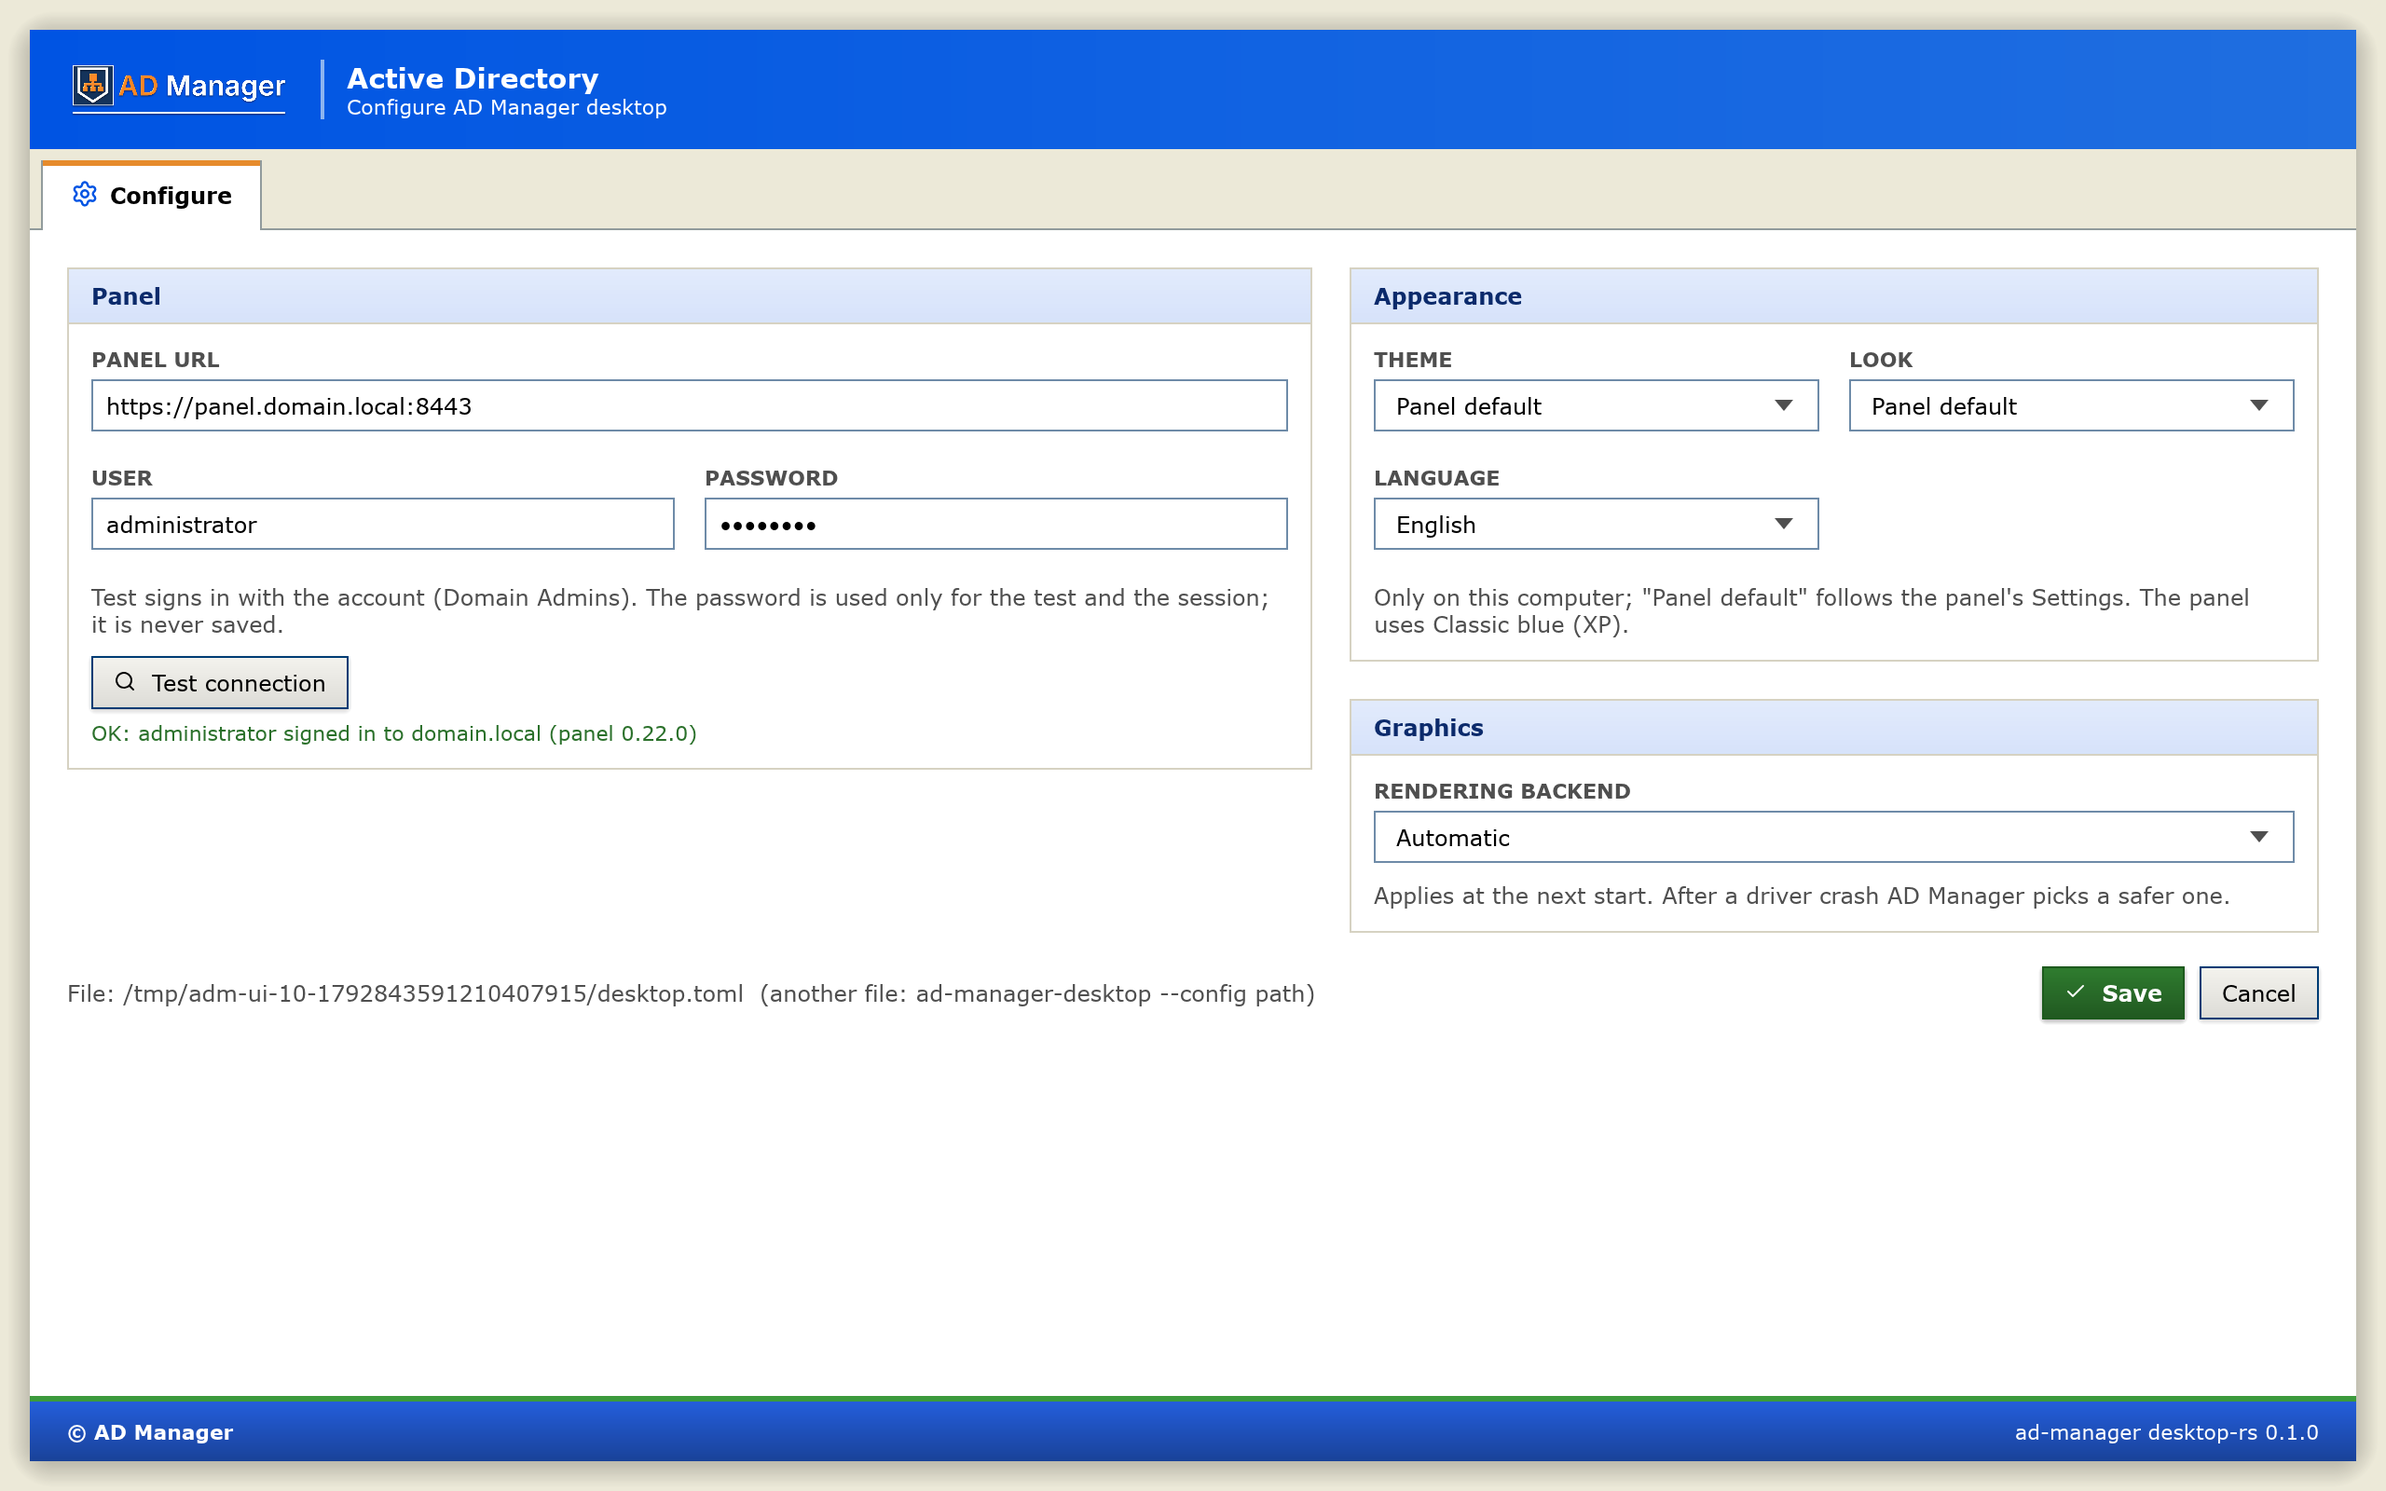
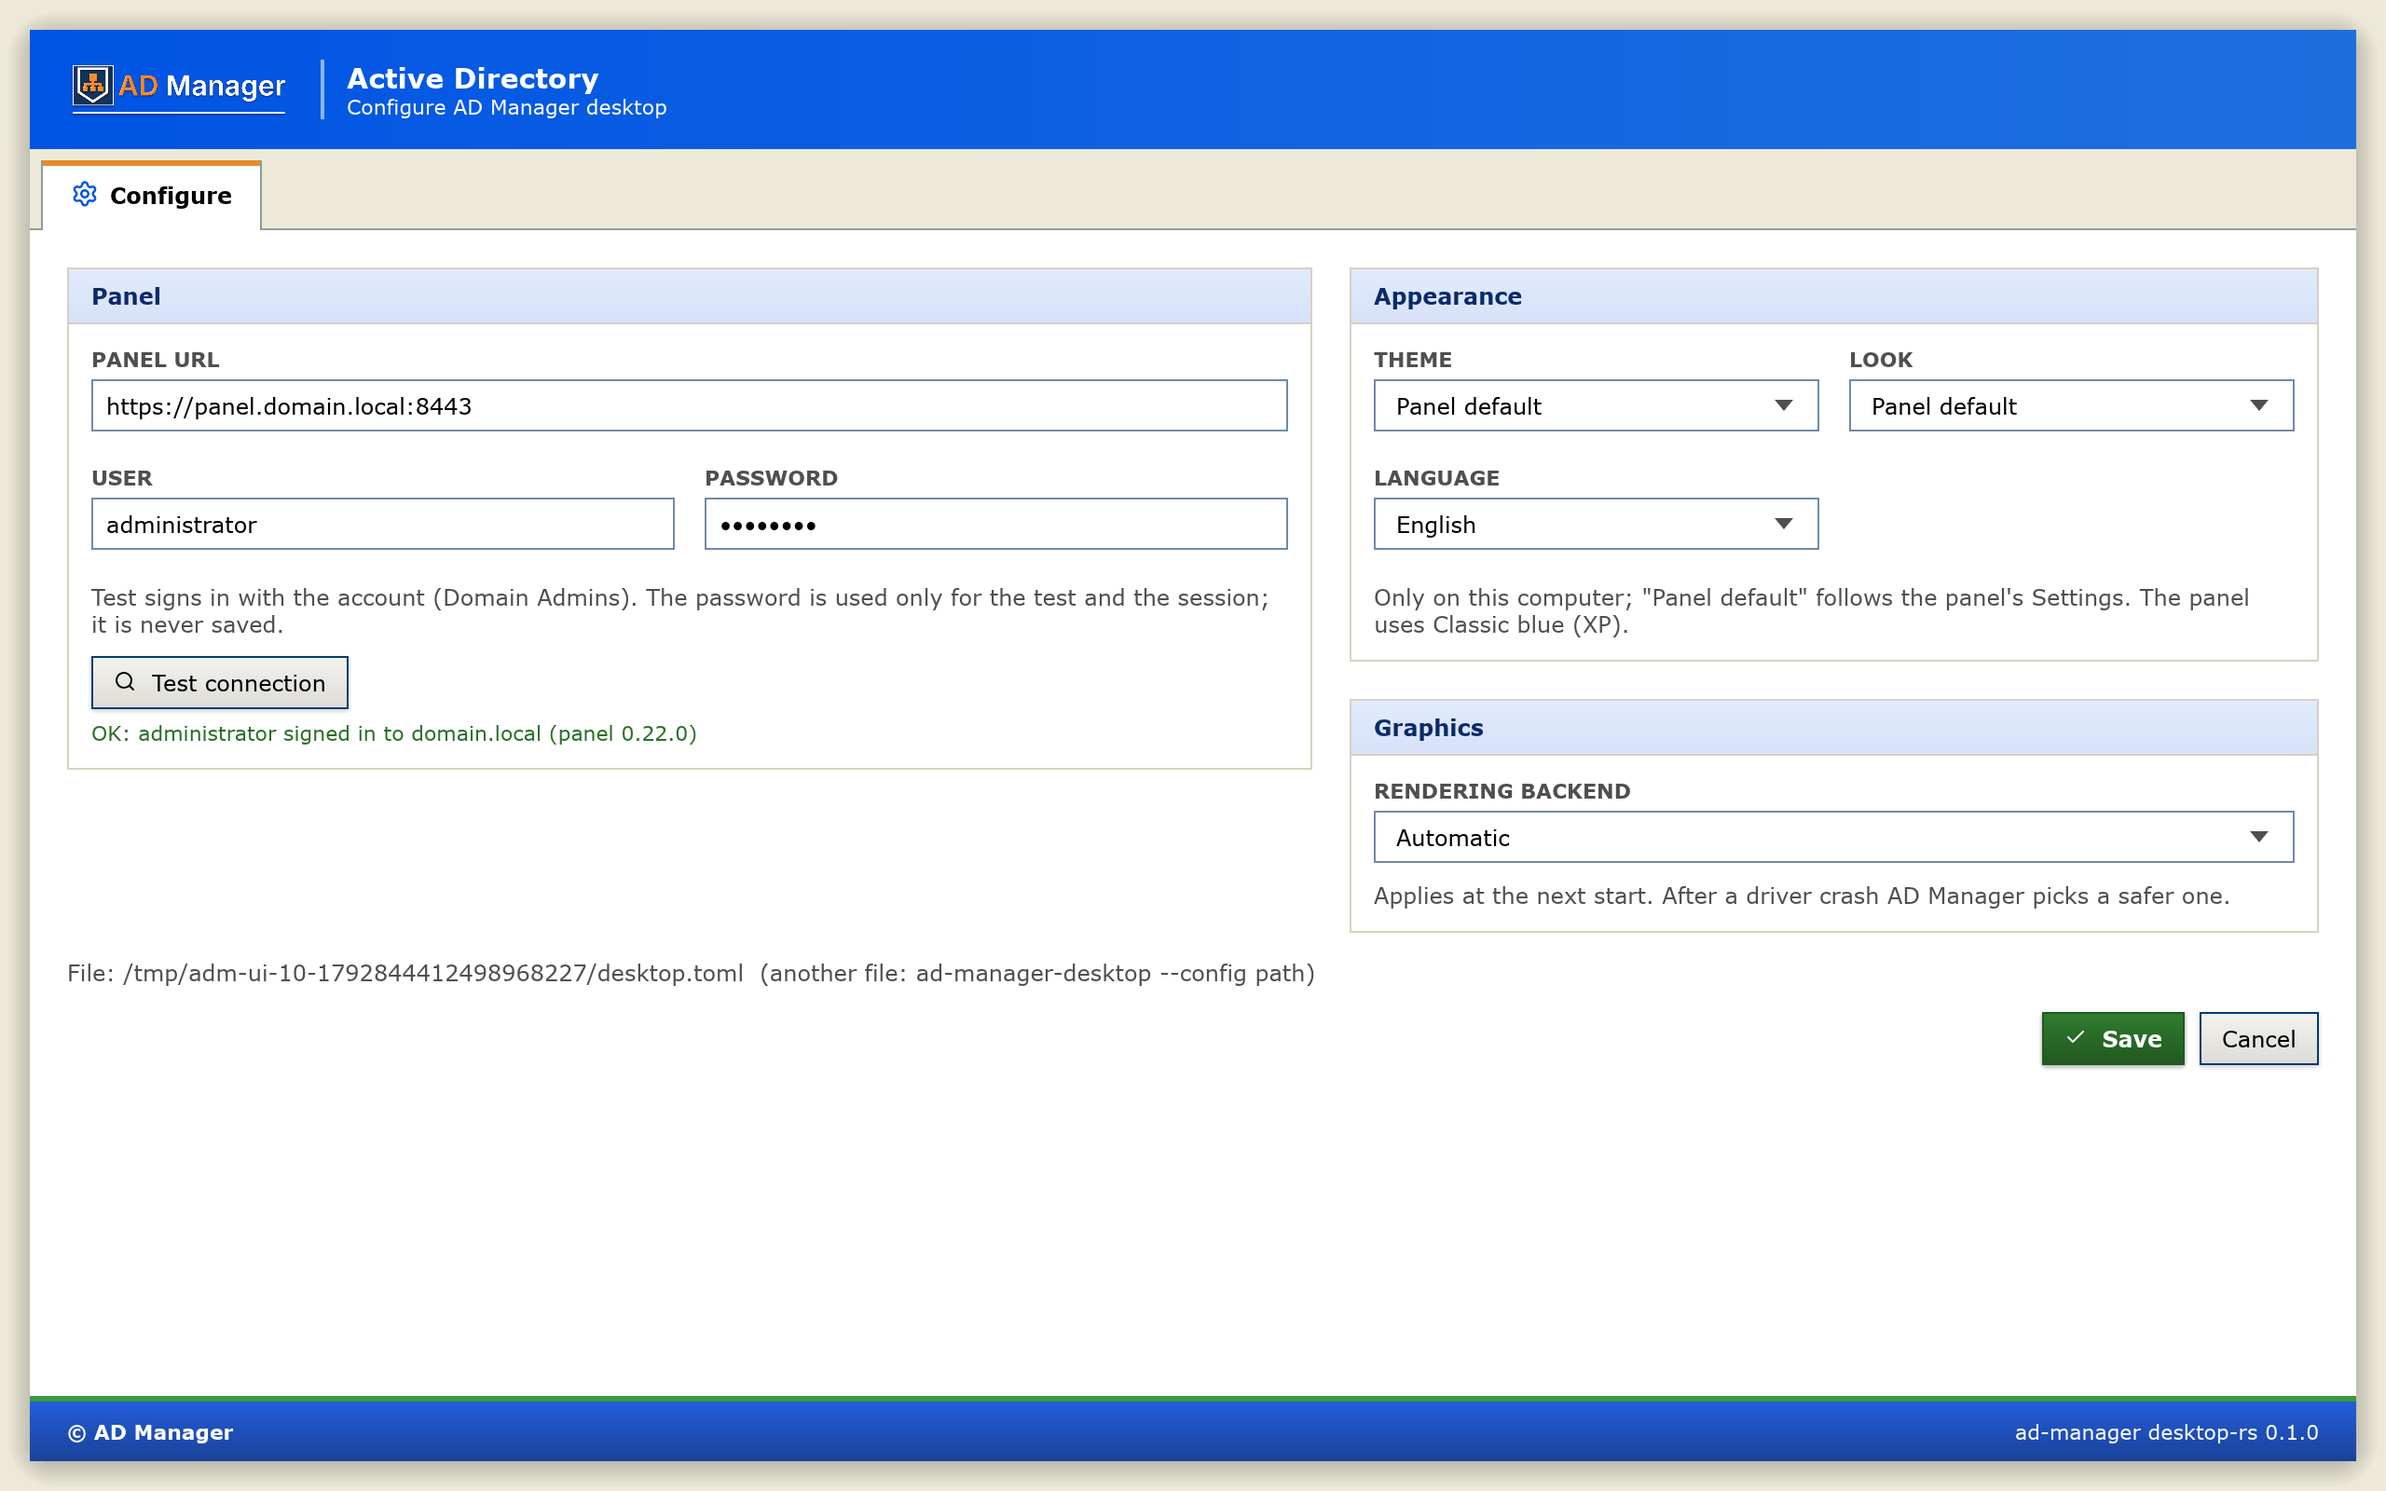
fix(desktop-rust): table heads over the scroll bar, refresh feedback, Configure review
- a scrolling table's head band reaches over the scroll bar's column (a
  white block sat above it in every list)
- the toolbars' refresh button is disabled while reading and says in the
  status line how many users, groups, computers or OUs it read
- select lists scroll to the chosen option only when they open (the wheel
  no longer snaps back); Configure stacks its columns under 900 points and
  puts the file hint on its own row (Codex review)

Changed region(s): [[0.0312, 0.625, 0.5625, 0.6875], [0.8438, 0.625, 0.9688, 0.7188]]

diff --git a/desktop-rust/crates/ui/src/setup.rs b/desktop-rust/crates/ui/src/setup.rs
@@ -318,9 +318,17 @@ impl Setup {
             page.set_clip_rect(area.expand(20.0));
             let ui = &mut page;
             // only a very short window (or the certificate's details) scrolls
-            egui::ScrollArea::vertical().max_height(area.height() - 44.0).auto_shrink([false, true]).show(ui, |ui| {
+            egui::ScrollArea::vertical().max_height(area.height() - 72.0).auto_shrink([false, true]).show(ui, |ui| {
                 let total = ui.available_width();
-                // the web's Settings grid: the main column, and a 520-point one at its right
+                // the web's Settings grid: the main column and a 520-point one at its right; stacked when narrow (the
+                // web's xl breakpoint)
+                if total < 900.0 {
+                    ui.spacing_mut().item_spacing.y = 20.0;
+                    widgets::card(ui, &look, t("Panel"), |ui| self.panel_card(ui, cx));
+                    widgets::card(ui, &look, t("Appearance"), |ui| self.appearance_card(ui, cx));
+                    widgets::card(ui, &look, t("Graphics"), |ui| self.graphics_card(ui, cx));
+                    return;
+                }
                 let right_w = 520.0_f32.min((total * 0.45).floor()).max(1.0);
                 ui.horizontal_top(|ui| {
                     ui.spacing_mut().item_spacing.x = 20.0;
@@ -340,19 +348,20 @@ impl Setup {
             if let Some(e) = &self.write_err {
                 ui.label(RichText::new(e).color(look.c("err")));
             }
-            ui.add_space(12.0);
-            // the file at the left; right to left: Cancel at the right end, Save before it
+            ui.add_space(8.0);
+            // the file on its row (a long path wraps), the buttons under it at the right
+            widgets::muted(
+                ui,
+                &look,
+                &format!(
+                    "{}{}{}",
+                    t("File: "),
+                    cx.cfg_path.display(),
+                    t("  (another file: ad-manager-desktop --config path)")
+                ),
+            );
+            ui.add_space(8.0);
             ui.horizontal(|ui| {
-                widgets::muted(
-                    ui,
-                    &look,
-                    &format!(
-                        "{}{}{}",
-                        t("File: "),
-                        cx.cfg_path.display(),
-                        t("  (another file: ad-manager-desktop --config path)")
-                    ),
-                );
                 ui.with_layout(egui::Layout::right_to_left(egui::Align::Center), |ui| {
                     if self.back != Back::None && widgets::button(ui, &look, "", t("Cancel"), Kind::Secondary).clicked()
                     {

diff --git a/desktop-rust/crates/ui/src/pages/groups.rs b/desktop-rust/crates/ui/src/pages/groups.rs
@@ -19,6 +19,8 @@ use crate::widgets::{self, Kind};
 
 #[derive(Default)]
 pub struct Groups {
+    /// A refresh asked by the toolbar's button, in flight (it says what it read when done).
+    refreshing: bool,
     groups: Vec<Group>,
     /// The logins and names of the users (the detail dialog's suggestions and names).
     logins: Vec<(String, String)>,
@@ -63,7 +65,7 @@ impl Groups {
         cx.run(
             async move { Ok((api.get::<Vec<Group>>("/api/groups").await?, api.get::<Vec<User>>("/api/users").await?)) },
             move |app, (mut r, users)| {
-                app.with_shell(|s, _| {
+                app.with_shell(|s, cx| {
                     let p = &mut s.groups;
                     if p.generation != g {
                         return;
@@ -72,6 +74,9 @@ impl Groups {
                     p.groups = r;
                     p.logins = users.into_iter().map(|u| (u.sam, u.name)).collect();
                     p.apply();
+                    if std::mem::take(&mut p.refreshing) {
+                        cx.set_status(tf!("%d groups read from the domain.", p.groups.len()));
+                    }
                 });
             },
         );
@@ -115,7 +120,8 @@ impl Groups {
                     .color(look.c("fg-muted")),
             );
             widgets::toolbar_end(ui, |ui| {
-                if widgets::icon_button(ui, &look, crate::icons::REFRESH, t("Refresh")).clicked() {
+                if widgets::refresh_button(ui, &look, self.refreshing) {
+                    self.refreshing = true;
                     self.reload(cx);
                 }
                 if widgets::button(ui, &look, crate::icons::PLUS, t("New group"), Kind::Primary).clicked() {

diff --git a/desktop-rust/crates/ui/src/widgets.rs b/desktop-rust/crates/ui/src/widgets.rs
@@ -118,6 +118,13 @@ fn boxed(ui: &mut Ui, look: &Look, b: egui::Button<'_>, kind: Kind, line: Color3
     r
 }
 
+/// A toolbar's refresh button: disabled while `busy` (a reload in flight), so a click shows it is working.
+pub fn refresh_button(ui: &mut Ui, look: &Look, busy: bool) -> bool {
+    ui.add_enabled_ui(!busy, |ui| icon_button(ui, look, crate::icons::REFRESH, adm_core::i18n::t("Refresh")))
+        .inner
+        .clicked()
+}
+
 /// An icon-only button with its name as tooltip.
 pub fn icon_button(ui: &mut Ui, look: &Look, icon: &str, name: &str) -> Response {
     let r = button(ui, look, icon, "", Kind::Secondary);
@@ -1211,8 +1218,15 @@ pub fn option(ui: &mut Ui, chosen: bool, text: &str, index: usize) -> Response {
     ui.painter().hline(rect.x_range(), rect.bottom() - 0.5, Stroke::new(1.0, c.line));
     ui.painter().galley(egui::pos2(rect.left() + 8.0, rect.center().y - g.size().y / 2.0), g, ink);
     resp.widget_info(|| egui::WidgetInfo::selected(egui::WidgetType::SelectableLabel, true, chosen, text));
-    if chosen && ui.memory(|m| m.focused().is_none()) {
-        resp.scroll_to_me(None);
+    // the chosen option scrolled into view when the list opens, not on every frame (the wheel must move it)
+    if chosen {
+        let key = ui.id().with("adm-option-opened");
+        let pass = ui.ctx().cumulative_pass_nr();
+        let last = ui.ctx().data(|d| d.get_temp::<u64>(key));
+        if last.is_none_or(|l| l + 1 < pass) {
+            resp.scroll_to_me(Some(egui::Align::Center));
+        }
+        ui.ctx().data_mut(|d| d.insert_temp(key, pass));
     }
     resp.on_hover_cursor(egui::CursorIcon::PointingHand)
 }

diff --git a/desktop-rust/crates/ui/src/pages/ous.rs b/desktop-rust/crates/ui/src/pages/ous.rs
@@ -19,6 +19,8 @@ use crate::widgets::{self, Kind};
 
 #[derive(Default)]
 pub struct Ous {
+    /// A refresh asked by the toolbar's button, in flight (it says what it read when done).
+    refreshing: bool,
     ous: Vec<OrgUnit>,
     /// The tree order: index in `ous` and level.
     tree: Vec<(usize, usize)>,
@@ -55,11 +57,14 @@ impl Ous {
         let g = self.generation;
         let api = cx.panel.clone();
         cx.run(async move { crate::pages::users::fetch_ous(&api).await }, move |app, r| {
-            app.with_shell(|s, _| {
+            app.with_shell(|s, cx| {
                 if s.ous.generation == g {
                     s.ous.tree = tree(&r);
                     s.ous.ous = r;
                     s.ous.table.clear();
+                    if std::mem::take(&mut s.ous.refreshing) {
+                        cx.set_status(tf!("%d OUs and containers read from the domain.", s.ous.ous.len()));
+                    }
                 }
             });
         });
@@ -79,7 +84,8 @@ impl Ous {
             ui.label(crate::style::semibold(&cx.me.domain, 12.0).color(muted));
             ui.with_layout(egui::Layout::right_to_left(egui::Align::Center), |ui| {
                 ui.spacing_mut().item_spacing.x = look.px("toolbar-gap", 8.0);
-                if widgets::icon_button(ui, &look, crate::icons::REFRESH, t("Refresh")).clicked() {
+                if widgets::refresh_button(ui, &look, self.refreshing) {
+                    self.refreshing = true;
                     self.reload(cx);
                 }
                 if widgets::button(ui, &look, crate::icons::FOLDER_PLUS, t("New OU"), Kind::Primary).clicked() {

diff --git a/desktop-rust/crates/ui/src/pages/computers.rs b/desktop-rust/crates/ui/src/pages/computers.rs
@@ -17,6 +17,8 @@ use crate::widgets::{self, Kind};
 
 #[derive(Default)]
 pub struct Computers {
+    /// A refresh asked by the toolbar's button, in flight (it says what it read when done).
+    refreshing: bool,
     all: Vec<Computer>,
     visible: Vec<usize>,
     search: String,
@@ -56,6 +58,9 @@ impl Computers {
                 p.system = chosen.and_then(|c| systems.iter().position(|s| *s == c)).unwrap_or(0);
                 p.systems = systems;
                 p.all = r;
+                if std::mem::take(&mut p.refreshing) {
+                    cx.set_status(tf!("%d computers read from the domain.", p.all.len()));
+                }
                 p.apply(cx);
             });
         });
@@ -98,7 +103,8 @@ impl Computers {
                 RichText::new(tf!("%d of %d", self.visible.len(), self.all.len())).size(12.0).color(look.c("fg-muted")),
             );
             widgets::toolbar_end(ui, |ui| {
-                if widgets::icon_button(ui, &look, crate::icons::REFRESH, t("Refresh")).clicked() {
+                if widgets::refresh_button(ui, &look, self.refreshing) {
+                    self.refreshing = true;
                     self.reload(cx);
                 }
                 if widgets::button(ui, &look, crate::icons::DOWNLOAD, t("Export CSV"), Kind::Secondary).clicked() {

diff --git a/desktop-rust/crates/ui/src/pages/users.rs b/desktop-rust/crates/ui/src/pages/users.rs
@@ -35,6 +35,8 @@ const COMPACT: f32 = 34.0;
 
 #[derive(Default)]
 pub struct Users {
+    /// A refresh asked by the toolbar's button, in flight (it says what it read when done).
+    refreshing: bool,
     all: Vec<User>,
     visible: Vec<usize>,
     search: String,
@@ -66,6 +68,9 @@ impl Users {
                 s.users.all = r;
                 s.users.loaded = true;
                 s.users.apply(cx);
+                if std::mem::take(&mut s.users.refreshing) {
+                    cx.set_status(tf!("%d users read from the domain.", s.users.all.len()));
+                }
             });
         });
     }
@@ -202,7 +207,8 @@ impl Users {
             );
             widgets::toolbar_end(ui, |ui| {
                 if wide {
-                    if widgets::icon_button(ui, &look, crate::icons::REFRESH, t("Refresh")).clicked() {
+                    if widgets::refresh_button(ui, &look, self.refreshing) {
+                        self.refreshing = true;
                         self.reload(cx);
                     }
                     if widgets::button(ui, &look, crate::icons::USER_PLUS, t("New user"), Kind::Primary).clicked() {

diff --git a/desktop-rust/crates/ui/src/table.rs b/desktop-rust/crates/ui/src/table.rs
@@ -429,6 +429,19 @@ fn show<A>(
             });
         });
     });
+    // the header band over the scroll bar's column too (the web's sticky head spans the wrapper)
+    if !fits {
+        let rect = framed.response.rect;
+        let used: f32 = widths.iter().sum();
+        let gutter = egui::Rect::from_min_max(
+            egui::pos2((rect.left() + used).min(rect.right()), rect.top()),
+            egui::pos2(rect.right(), rect.top() + head_h),
+        );
+        if gutter.width() > 0.0 {
+            crate::depth::paint_box(ui.painter(), gutter, head_grad, head_fill, head_shadow);
+            ui.painter().hline(gutter.x_range(), gutter.bottom() - 0.5, egui::Stroke::new(1.0, line));
+        }
+    }
     // the table's 1 px frame, as the web's wrapper
     if t.frame {
         ui.painter().rect_stroke(framed.response.rect, 0.0, egui::Stroke::new(1.0, line), egui::StrokeKind::Inside);

diff --git a/desktop-rust/crates/ui/tests/ui.rs b/desktop-rust/crates/ui/tests/ui.rs
@@ -879,3 +879,17 @@ fn many_samba_tabs_wrap_and_stay_reachable() {
     };
     assert!(opened, "the last server's Samba tab opened (its files asked for)");
 }
+
+/// The toolbars' refresh button reads the list again and says so in the status line.
+#[test]
+fn refresh_reads_the_list_again_and_says_so() {
+    let mut e = env();
+    e.users_page();
+    let before = e.sent("GET", "/api/users").iter().filter(|r| r.path == "/api/users").count();
+    e.h.get_by_label("Refresh").click();
+    e.wait("the reload", move |_, m| {
+        m.sent("GET", "/api/users").iter().filter(|r| r.path == "/api/users").count() > before
+    });
+    e.h.run_steps(3);
+    assert!(e.app().cx.status.contains("60"), "the status says what was read: {}", e.app().cx.status);
+}
